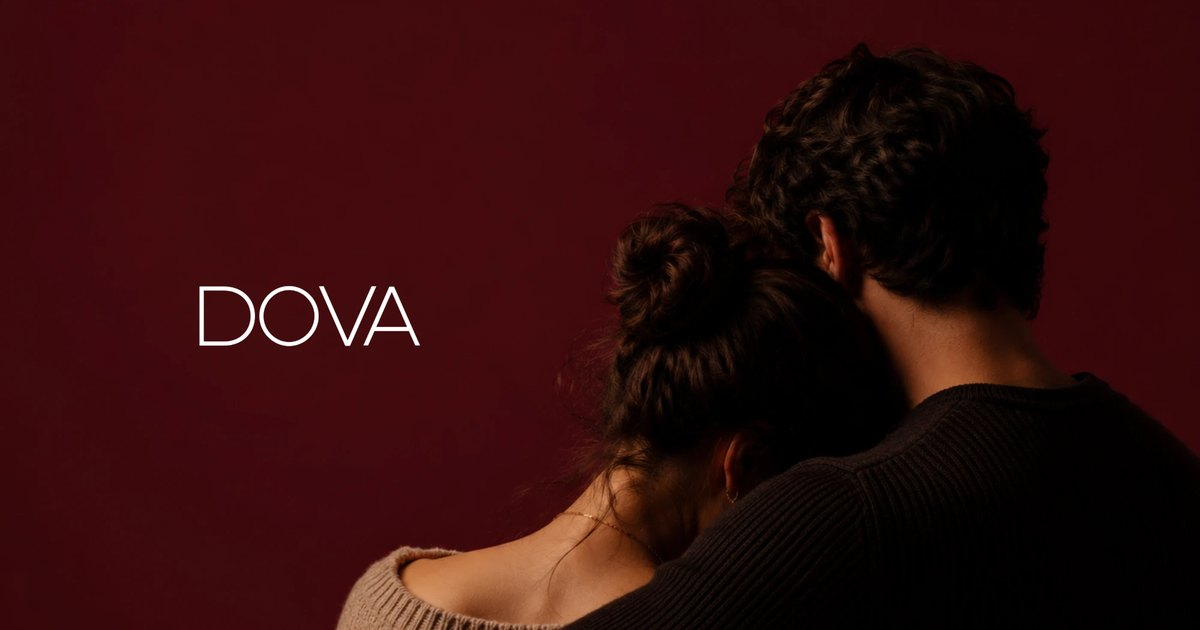
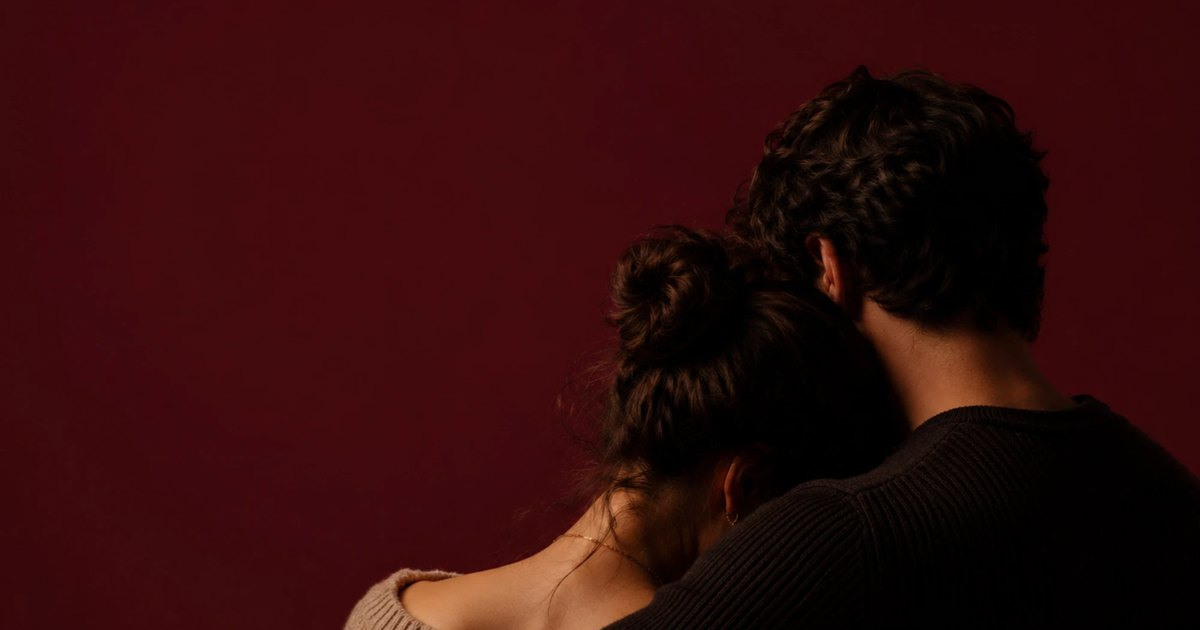
Update share image and meta description
New 1200x630 share image from the supplied art, and a description that
speaks to couples and therapists in one line.

Claude-Session: https://claude.ai/code/session_01YNw4WYrc8grhXz3zX27fV3

Changed region(s): [[0.2775, 0.0603, 1.0, 1.0], [0.1542, 0.4524, 0.37, 0.573]]

diff --git a/index.html b/index.html
@@ -4,7 +4,7 @@
     <meta charset="utf-8" />
     <meta name="viewport" content="width=device-width, initial-scale=1" />
     <title>Dova · A new partner for couples’ therapy</title>
-    <meta name="description" content="Dova supports couples between sessions, alongside their therapist. Private by design and HIPAA-compliant. Join the waitlist as a therapist or a couple." />
+    <meta name="description" content="For couples, support between sessions. For therapists, a partner in the work. Private by design and HIPAA-compliant. Join the Dova waitlist." />
     <!-- Change the site URL in canonical, og:url, og:image and twitter:image when the custom domain goes live. -->
     <link rel="canonical" href="https://dova-webiste.vercel.app/" />
     <meta property="og:url" content="https://dova-webiste.vercel.app/" />
@@ -12,13 +12,13 @@
     <meta property="og:type" content="website" />
     <meta property="og:site_name" content="Dova" />
     <meta property="og:title" content="Dova · A new partner for couples’ therapy" />
-    <meta property="og:description" content="Dova supports couples between sessions, alongside their therapist. Private by design and HIPAA-compliant. Join the waitlist as a therapist or a couple." />
+    <meta property="og:description" content="For couples, support between sessions. For therapists, a partner in the work. Private by design and HIPAA-compliant. Join the Dova waitlist." />
     <meta property="og:image:width" content="1200" />
     <meta property="og:image:height" content="630" />
-    <meta property="og:image:alt" content="The Dova wordmark beside a couple holding each other, seen from behind" />
+    <meta property="og:image:alt" content="A couple holding each other, seen from behind" />
     <meta name="twitter:card" content="summary_large_image" />
     <meta name="twitter:title" content="Dova · A new partner for couples’ therapy" />
-    <meta name="twitter:description" content="Dova supports couples between sessions, alongside their therapist. Private by design and HIPAA-compliant. Join the waitlist as a therapist or a couple." />
+    <meta name="twitter:description" content="For couples, support between sessions. For therapists, a partner in the work. Private by design and HIPAA-compliant. Join the Dova waitlist." />
     <meta name="twitter:image" content="https://dova-webiste.vercel.app/og-image.jpg" />
     <meta name="theme-color" content="#3C090C" />
     <link rel="icon" href="/favicon.ico" sizes="48x48" />
